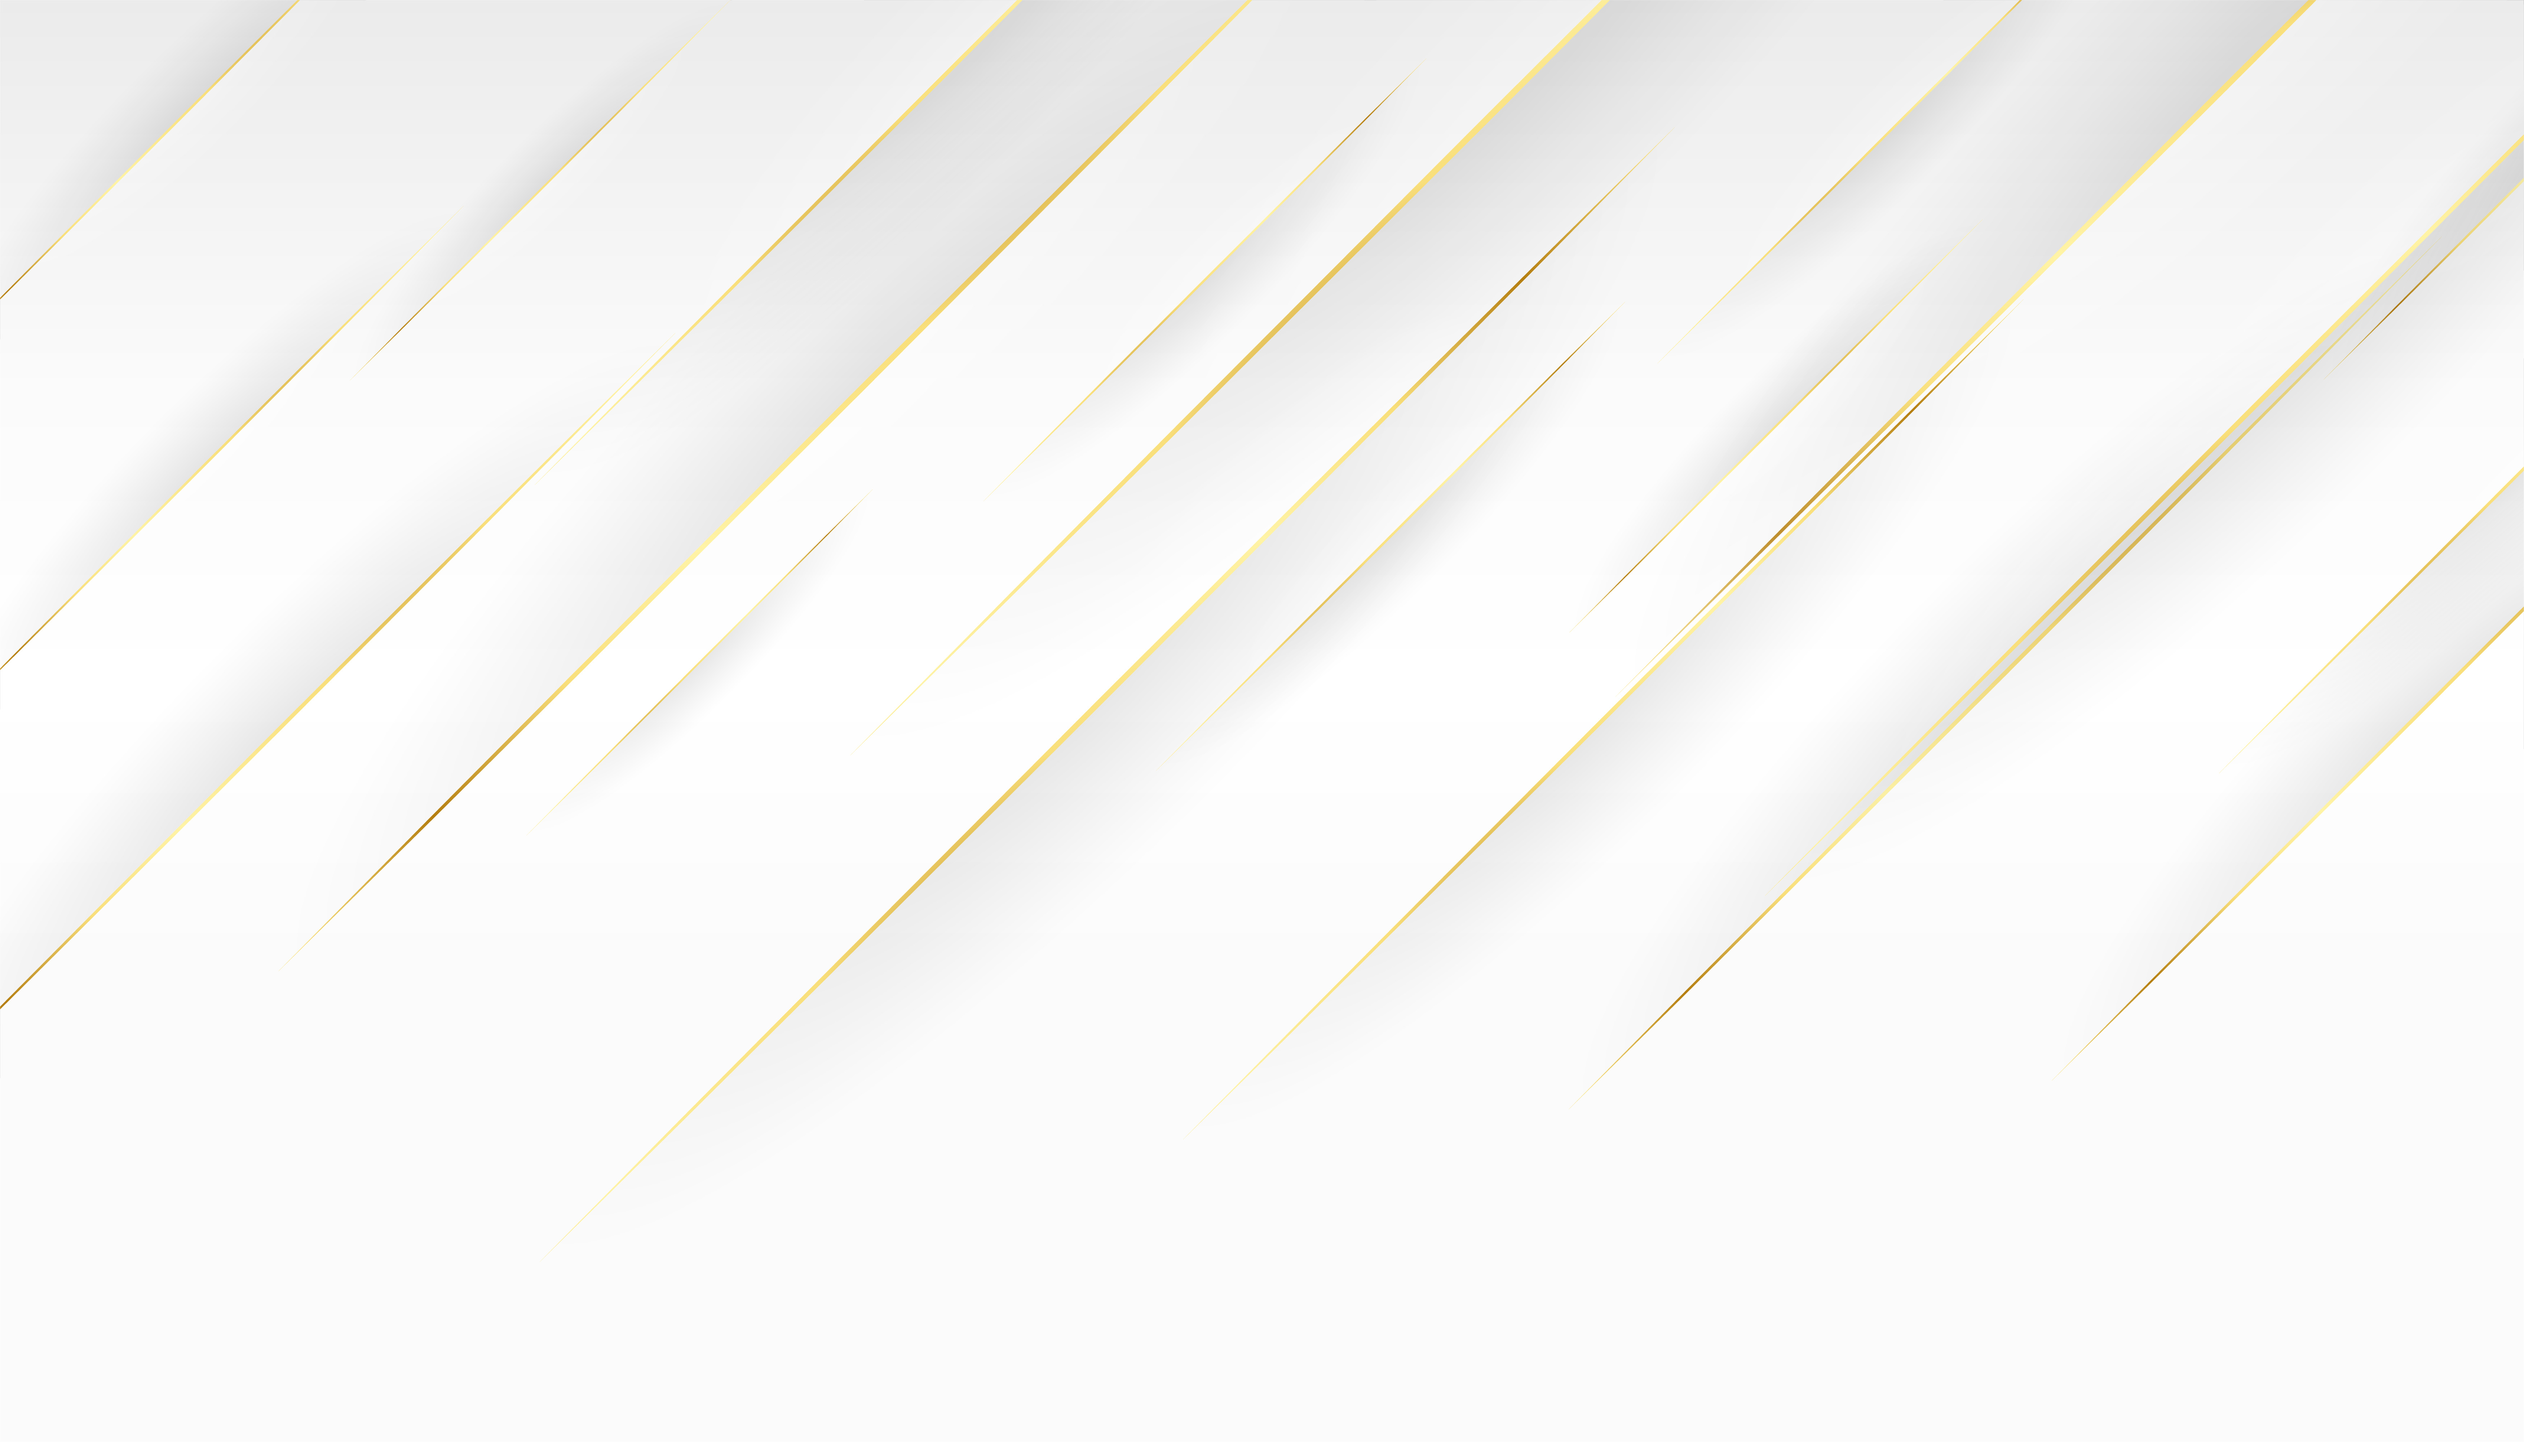
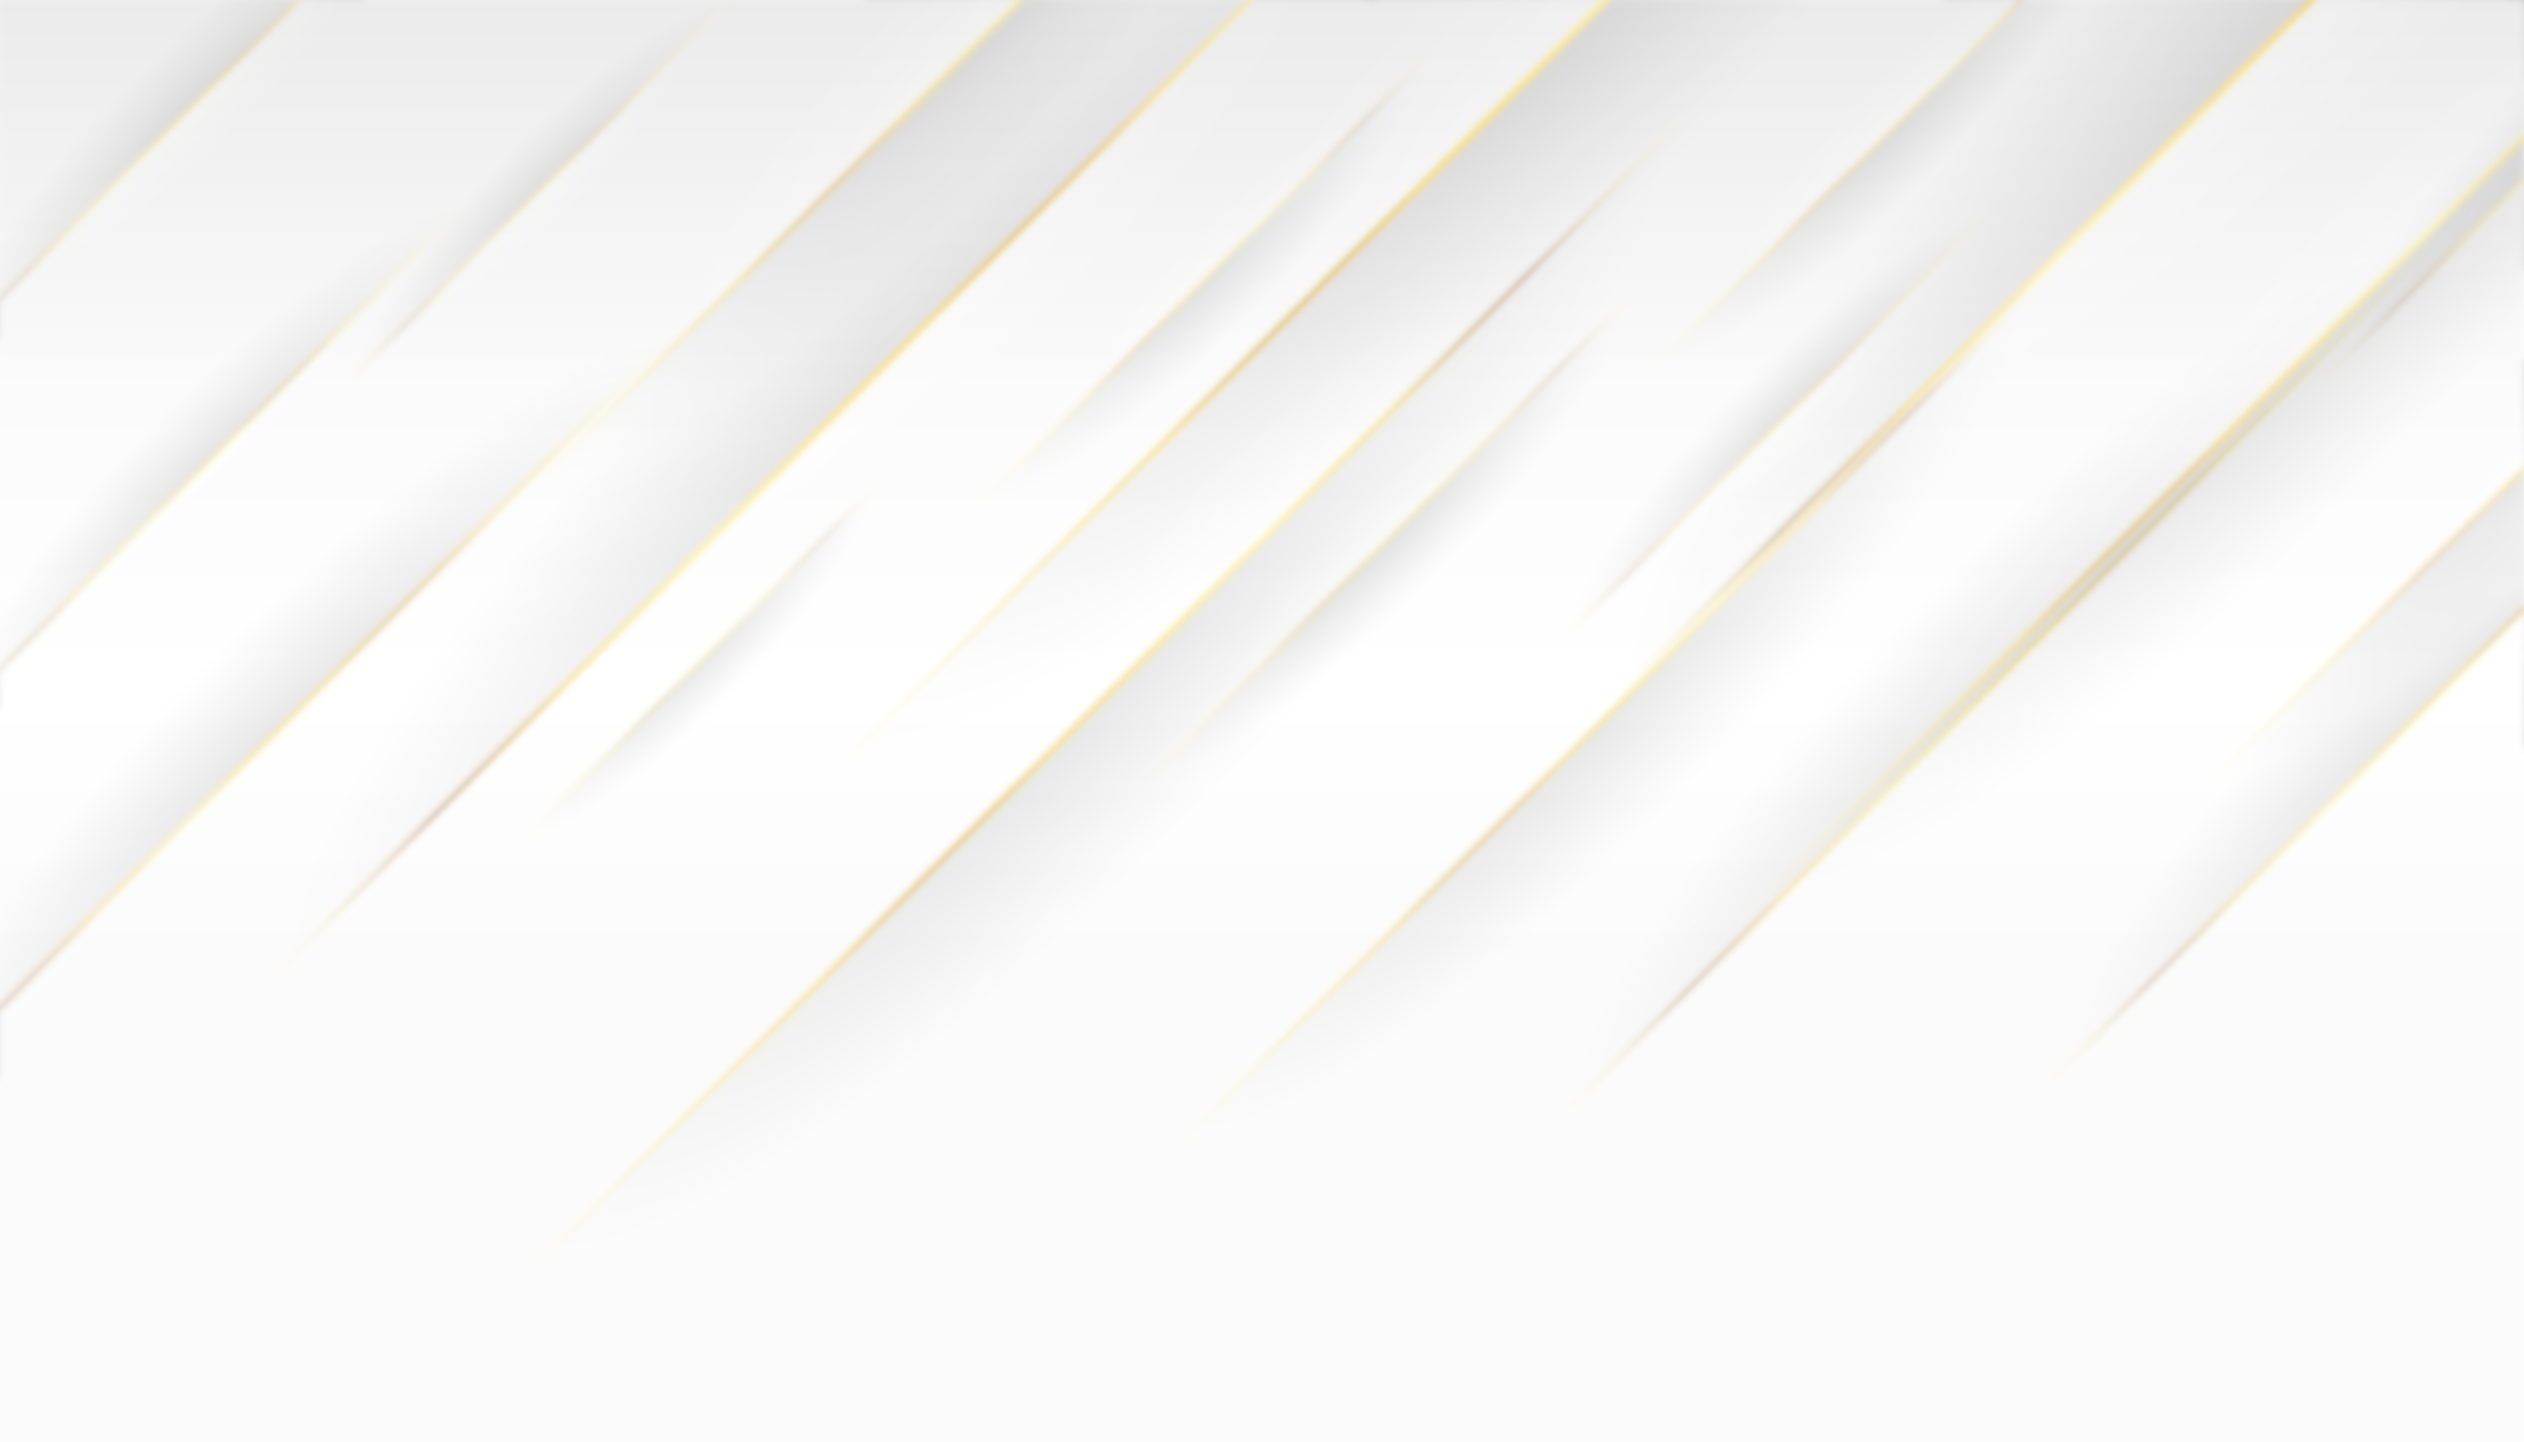
novas imagens no topico do livro, novo background, mas ainda faltam ajustes

diff --git a/index.html b/index.html
@@ -143,56 +143,59 @@
 </section>
 <div class="borda"></div>
 
+<div class="fundo2">
 <section class="escrita">
-    <h1>Terapia da Escrita: Transformando vidas através das palavras</h1>
-    <div class="cont-mento-escrita">
-        <img src="imagens/Mentoria-escrita.jpg" alt="" class="img1">
-        <p>Terapia da Escrita: Transformando Vidas através das Palavras" visa promover a utilização terapêutica da escrita como uma ferramenta poderosa para o bem-estar emocional e o desenvolvimento pessoal. A terapia da escrita é uma abordagem inovadora que combina técnicas de escrita expressiva, reflexiva e criativa ajudando a pessoa a explorar suas emoções, pensamentos e experiências pessoais, promovendo a autorreflexão e o autoconhecimento promovendo bem-estar emocional, a autorreflexão e o autoconhecimento. Essa forma de terapia tem se mostrado eficaz no tratamento de diversos problemas emocionais, como ansiedade, estresse, depressão e traumas pessoas que buscam melhorar sua saúde mental e qualidade de vida.</p>
-    </div>
-    <div class="cont-mento-escrita">
-       
-            <div class="div2">
-                <p>- Mentoria Escritores do Reino: Mentoria Autores do Reino é uma oportunidade para aprimorar habilidades de escrita e ampliar o alcance da mensagem. Ideal para quem deseja transmitir valores do Reino, compartilhar verdades eternas e impactar vidas por meio da escrita.
-                
-                </p>
-                <a href="" class="vaga">QUERO GARANTIR MINHA VAGA PARA A PRÓXIMA TURMA</a>
-                
-            </div>
+    
+        <h1>Terapia da Escrita: Transformando vidas através das palavras</h1>
+        <div class="cont-mento-escrita">
+            <img src="imagens/Mentoria-escrita.jpg" alt="" class="img1">
+            <p>Terapia da Escrita: Transformando Vidas através das Palavras" visa promover a utilização terapêutica da escrita como uma ferramenta poderosa para o bem-estar emocional e o desenvolvimento pessoal. A terapia da escrita é uma abordagem inovadora que combina técnicas de escrita expressiva, reflexiva e criativa ajudando a pessoa a explorar suas emoções, pensamentos e experiências pessoais, promovendo a autorreflexão e o autoconhecimento promovendo bem-estar emocional, a autorreflexão e o autoconhecimento. Essa forma de terapia tem se mostrado eficaz no tratamento de diversos problemas emocionais, como ansiedade, estresse, depressão e traumas pessoas que buscam melhorar sua saúde mental e qualidade de vida.</p>
+        </div>
+        <div class="cont-mento-escrita">
         
-            <img src="imagens/Mentoria-escrita2.jpg" alt="" class="img2">
+                <div class="div2">
+                    <p>- Mentoria Escritores do Reino: Mentoria Autores do Reino é uma oportunidade para aprimorar habilidades de escrita e ampliar o alcance da mensagem. Ideal para quem deseja transmitir valores do Reino, compartilhar verdades eternas e impactar vidas por meio da escrita.
+        
+                    </p>
+                    <a href="" class="vaga">QUERO GARANTIR MINHA VAGA PARA A PRÓXIMA TURMA</a>
+        
+                </div>
+        
+                <img src="imagens/Mentoria-escrita2.jpg" alt="" class="img2">
+        </div>
+        </section>
+        
+        <!--sessao livro-->
+        <section id="liv" class="livro">
+            <h1 class="titulo-livro">Meus Livros</h1>
+            <div class="cont-flex-liv">
+                <div class="flex-liv">
+                    <img src="imagens/josi-livro.jpg" alt="">
+                    <p>Você já se perguntou como algumas pessoas parecem ter tudo sob controle? Como elas conseguem realizar seus sonhos e atingir metas ambiciosas? A resposta está no poder do pensamento,
+                        um verdadeiro superpoder que está ao seu alcance!
+                        Mergulhe em um mundo onde a mente se torna uma ferramenta poderosa capaz de moldar seu destino. Prepare-se para uma jornada transformadora, na qual desvendaremos os segredos do pensamento organizado, revelando como esse poderoso recurso pode levar você além dos limites que jamais imaginou!
+                        Conquistar objetivos, superar desafios e alcançar o sucesso não será mais um mistério. Ao longo destas páginas, você encontrará técnicas inovadoras para liberar todo o potencial oculto de sua mente. Aprenda a eliminar as barreiras que o impedem de prosperar, tornando-se o protagonista de sua própria história.
+                        Explore como o pensamento organizado influencia cada aspecto de sua vida, desde a carreira até os relacionamentos pessoais. Descubra como mudar hábitos negativos para sempre e construir uma mentalidade forte e resiliente.
+                        Então, está preparado para desvendar o potencial adormecido em sua mente? Junte-se a nós nessa viagem rumo ao autoconhecimento, crescimento pessoal e, acima de tudo, para libertar a força motriz que o levará a conquistar todos os seus sonhos.
+                        A revolução começa agora. Abra este livro e transforme a sua vida através do poder do pensamento organizado!
+                        Através dessa obra quero te ajudar a Ressignificar sua história e transformar seu destino, por quê?
+                        Porque o fim é melhor que o começo! Eclesiastes 7:8
+                        </p>
+                </div>
+                <div class="flex-liv">
+                        <p>1. Personalização: Cada serviço é adaptado para atender às metas e objetivos específicos de cada cliente. <br>
+                        2. Acolhimento e Respeito: Criamos um ambiente seguro e confidencial para que os clientes se sintam à vontade para compartilhar suas experiências. <br>
+                        3. Resultados Comprovados: Depoimentos e histórias de sucesso de clientes que alcançaram o bem-estar emocional e crescimento pessoal por meio de nossos serviços. <br>
+                        4. Profissionalismo e Excelência: Seguimos padrões éticos rigorosos e comprometemo-nos a oferecer serviços de alta qualidade. <br>
+                        5. Ambiente Acolhedor: Proporcionamos um ambiente acolhedor e empático, onde os clientes se sentem à vontade para compartilhar suas experiências. <br>
+                        6. Compromisso com o Cliente: Nossa prioridade é o bem-estar e o progresso de cada cliente, e trabalhamos arduamente para alcançar resultados positivos . <br></p>
+                        <img src="imagens/livro1.png" alt="">
+                </div>
+            </div>
     </div>
 </section>
-
-
-<section id="liv" class="livro">
-    <div div class="img-livro">
-        <h1 class="titulo-livro">O Poder do Pensamento Organizado</h1>
-        
-            <a href="https://wa.me/554197409697" class="link-foto"><img src="imagens/884092cd-95d2-42b2-8bdc-7e163564db30.jpg" alt="livro O poder do pensamento Organizado" height="300px" class="img"></a>
-            <div class=".link-container1">
-                <a href="https://wa.me/554197409697" class="link" target="_blank" class="link">Adquira o seu</a>
-            </div>
-            
-            
-    </div>
-    
-    
-   
-   
-    <div class="paragrafo-livro">
-    <h2 class="titulo-livro">Sua condição não determina sua Posição!!!</h2>
-
-            <p>Nessa obra "O Poder Do pensamento Organizado" você encontrará a história de uma mulher que foi destruida pela vida, deu a volta por cima e hoje, curada, transformada leva cura e transformação a outras pessoas.</p>
-            <p>Através dessa obra quero te ajudar a Ressignificar sua história e transformar seu destino, porque?</p>
-            <p><span>Porque o fim é melhor que o começo! Ec 7:8</span></p>
-            <a href="https://wa.me/554197409697" class="link2" target="_blank" >Adquira o seu</a>
-        
-    </div>
-    <div class="img2-livro">
-        <a href="https://wa.me/554197409697"><img src="imagens/livro.jpg" alt="" class="img" height="300px" id="img-livro"></a>
-    </div>
-</section>
-
+</div>
+<!--fim sessao livro-->
 <section class="mentoria" id="men">
  <div class="pai-img-mentoria"> 
      

diff --git a/estilos/style.css b/estilos/style.css
@@ -118,13 +118,11 @@ main{
     text-align: justify;
     padding: 10px;
     width: 100%;
-    background-color: rgba(255, 255, 255, 0.677);
 
 }
 .quem-sou{
     text-align: center;
     font-size: 1.6em;
-    background-color: rgba(255, 255, 255, 0.562);
     }
 .objetivo-bio{
     display: flex;
@@ -138,7 +136,6 @@ main{
 .objetivo-bio p{
     max-width: 830px;
     padding: 10px;
-    background-color: rgba(255, 255, 255, 0.248);
 }
 .objetivo-bio h1{
     padding: 0;
@@ -292,14 +289,16 @@ background-size: cover;
         transition: .4s;
     }
     /*TOPICO MENTORIA ESCRITA*/
+    .fundo2{
+        background-image: url(../imagens/fundo2.jpg);
+        background-size: cover;
+    }
     .escrita{
         display: flex;
         flex-direction: column;
         justify-content: center;
         align-items: center;
         padding: 10px;
-        background-image: url(../imagens/fundo-linhas.jpg);
-        background-size: cover;
     }
     .escrita h1{
         font-weight: normal;
@@ -357,44 +356,27 @@ background-size: cover;
     /*TOPICO LIVRO*/
     .livro{
     padding: 20px;
-    background-image: linear-gradient( 120deg, #722429, #a70051 );
-    color: white;
-}
-.titulo-livro{
-    margin-top: 30px;
-    font-weight: normal;
-    font-family: 'Borel' ;
-}
-.livro p{
-    text-align: justify;
-    font-size: 20px;
-    line-height: 25px;
-    max-width: 500px;
-    background-color: #7224298c;
-    padding: 15px;
-    box-shadow: 3px 4px 6px rgba(0, 0, 0, 0.74);
-    border-radius: 35px 0px 35px 0px;
-    margin: 10px;
-    font-family: oxygen;
-}
-.paragrafo-livro{
-   display: flex;
-   flex-direction: column;
-   align-items: center;
-
 }
 .livro img{
-    border-radius: 35px 0px 35px 0px;
-    box-shadow: 12px 9px 10px rgba(0, 0, 0, 0.548);
-    margin-bottom: 20px;
+    height: 300px;
+}
+.cont-flex-liv{
+    display: flex;
+    flex-direction: column;
+    justify-content: space-around;
+    align-items: center;
+}
+.flex-liv{
+    display: flex;
+    flex-direction: row;
+    justify-content: space-evenly;
+    align-items: center;
+}
+.flex-liv p{
+    max-width: 50%;
+    text-align: justify;
 }
 
-.img-livro{
-    text-align: center;
-} 
-.img2-livro {
-    text-align: center;
-}
 .link2{
     display: none;
 }
